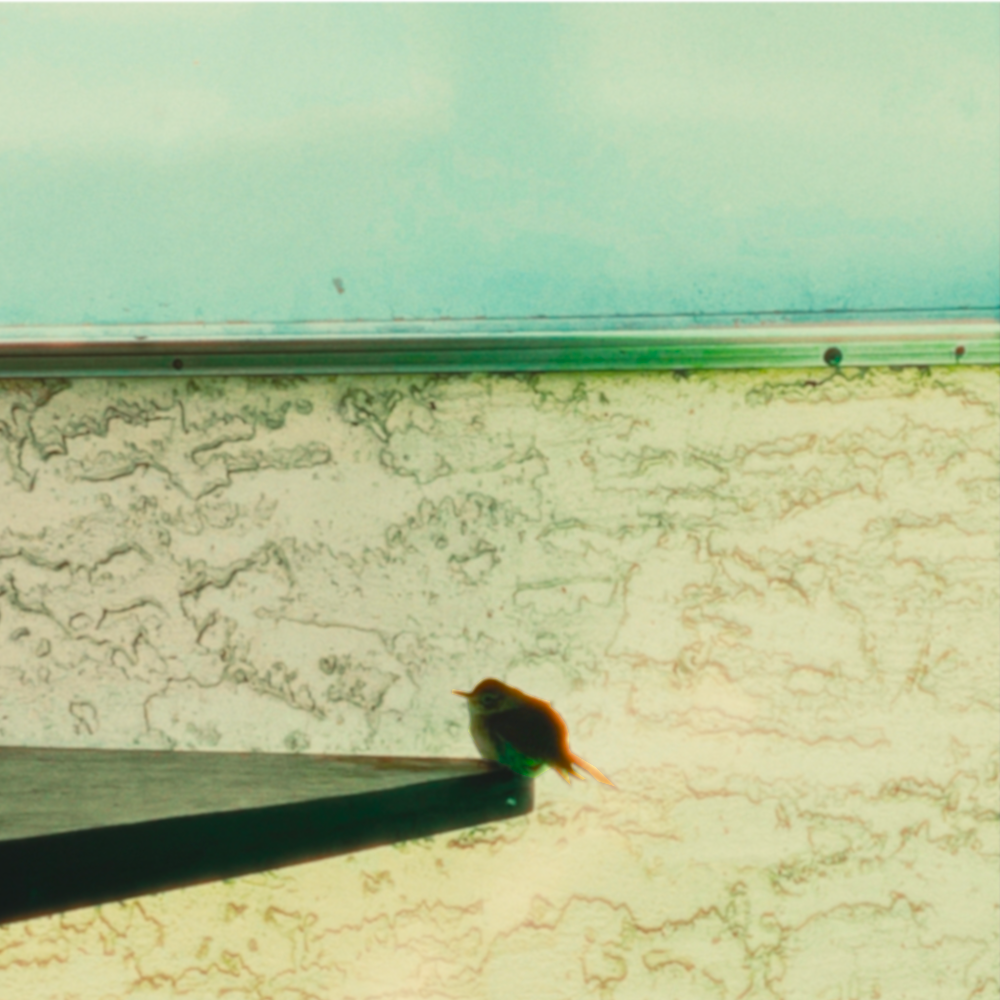
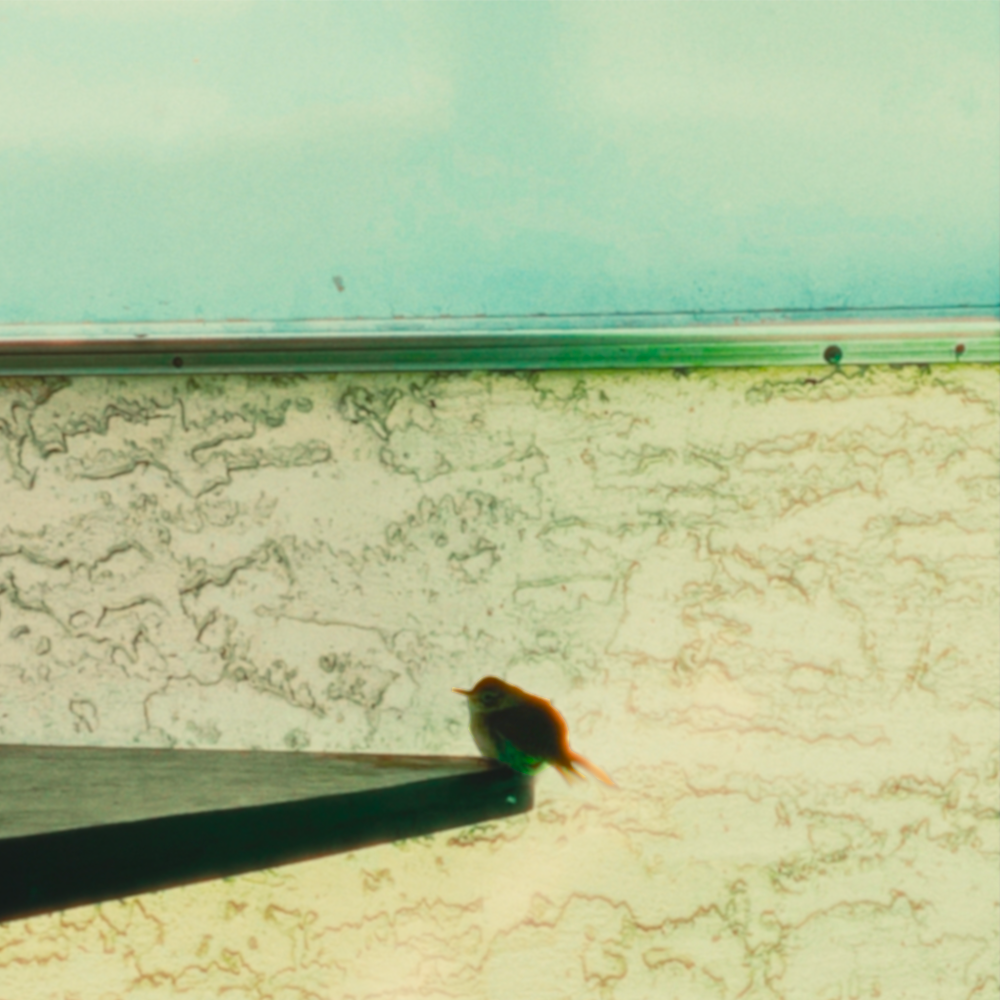
Updated for frail deluxe

diff --git a/index.html b/index.html
@@ -79,6 +79,13 @@
             </a> 
           </div>
         </nav>
+        <div class="album-cover">
+          <h2 class="album-title">frail (deluxe) is out now </h2>
+          <a href="https://parallelmusic.bandcamp.com/album/frail-deluxe" target="_blank" rel="noopener">
+            <img src="images/fraildeluxe.png" alt="frail (deluxe) Album Cover" width="300" height="300">
+          </a>
+        </div>
+        
       </header>
     </section>
     
@@ -100,16 +107,9 @@
           it was fully created in parallel's haven: a studio apartment in Montréal.</p>
         -->
         <p class="shows">
-          <a href=https://tickets.venuepilot.com/e/parallel-marmosette-beach-daze-2026-03-18-la-sotterenea-montreal-e0d31b?utm_source=share&utm_medium=copy_link&utm_content=top_right_button&utm_campaign=event_checkout&fbclid=PAZXh0bgNhZW0CMTEAc3J0YwZhcHBfaWQMMjU2MjgxMDQwNTU4AAGnhdi_wK2WXK03YTFVd03QPVK99OvhixDbiAKc3JeRIKLJyqP8nZGiXRADex4_aem_gwEP2mx3o1Xz9xFtfOQxgg" target="_blank" rel="noopener">La Sotterenia, Montréal (deluxe release show) - March 18th</a>
-          <br> 
-          <p style="text-indent: 2em;"> w/ 
-            <a href="https://open.spotify.com/artist/67ScItnEJa8Fl1c5r1CkdI?si=6-XWnc7vTHu56xtLewa_aQ" target="_blank" rel="noopener">Marmosette</a> + 
-            <a href="https://open.spotify.com/artist/3rn720U3NX3BZYuLnlJ5PC?si=vMx1eTl3QEial5YOR1v8bQ" target="_blank" rel="noopener">Beach Daze</a> (from New Jersey)
-          </p>
+          <p>Montréal, QC - March 31 - TBA </p>
           <br>
-          <a href="https://hypeddit.com/yul5yu" target="_blank" rel="noopener">frail (deluxe) - March 20th</a>
-          <br><br>
-          <a href="https://departureto.com/passes/" target="_blank" rel="noopener">Departure Festival, Toronto, ON - May 6</a>
+          <a href="https://departureto.com/passes/" target="_blank" rel="noopener">Departure Festival, Toronto, ON - May 6 @ The Painted Lady</a>
         </p>
       </div>
     </section>

diff --git a/about.html b/about.html
@@ -54,12 +54,13 @@
             Marty Plaskon is a 21-year-old emerging Canadian 
             artist who began releasing music under the name “parallel” in 2020. 
             While the early days of “parallel” were based in just production, 
-            Marty has elevated the project to new heights in just a year.
+            Marty has recently elevated the project to new heights.
             
-            <br> <br> This success has seen his streaming numbers climb, with his collab with link3, 
+            <br> <br> This success has seen his success climb, with his collab with link3, 
             <a href="https://open.spotify.com/track/1LMYS2t6qlFZrmzZmqOP0F?si=904f7e41e7ad47f2" target="_blank" rel="noopener"> "Renfrew Avenue"</a>, 
-            reaching 70k streams, his collab with Total, 
-            <a href="https://open.spotify.com/track/4uTmwrzuMMZlTuQ0Cnrh7u?si=52814f1cf2cb4541" target="_blank" rel="noopener"> "forest"</a>,  reaching 14k streams, and with opening for 
+            reaching 80k streams, his collab with Total, 
+            <a href="https://open.spotify.com/track/4uTmwrzuMMZlTuQ0Cnrh7u?si=52814f1cf2cb4541" target="_blank" rel="noopener"> "forest"</a>,  
+            reaching ~20k streams, and with opening for 
             <a href="https://open.spotify.com/artist/5r5uCVk3IIzm2jdfGDpl8C?si=YNw87CjiRGKl3_kzl8Phvg" target="_blank" rel="noopener">Beach Vacation</a>.
             <a href="https://www.blueskiesturnblack.com" target="_blank" rel="noopener">(A Blue Skies Turn Black Production)</a>
             He also opened for link3 on their mini-world tour. While “parallel” has undergone a major evolution 

diff --git a/styles.css b/styles.css
@@ -40,7 +40,7 @@ header {
   min-height: 100vh;
   background-image: url("images/smiling.jpg"); /* your first image */
   background-repeat: no-repeat;
-  background-size: cover;
+  background-size: 120% auto;
   background-position: center;
 
   position: relative;
@@ -224,6 +224,31 @@ h2.frail-title {
   font-size: clamp(24px, 3vw, 32px);
   margin-bottom: 16px;
   color: #ffffff;
+}
+.album-title {
+  font-family: Optima, 'Franklin Gothic Medium', 'Arial Narrow', Arial, sans-serif;
+  text-align: center;
+  margin-bottom: 16px;
+  font-size: clamp(20px, 3vw, 24px);
+  color: #dcdcdc;
+}
+
+.album-cover {
+  display: flex;
+  flex-direction: column;
+  align-items: center;
+  margin-top: 20px;
+  margin-left: 40px;
+  width: fit-content;
+}
+
+.album-cover img {
+  filter: brightness(50%);
+  transition: filter 160ms ease;
+}
+
+.album-cover img:hover {
+  filter: brightness(100%);
 }
 
 .shows {
